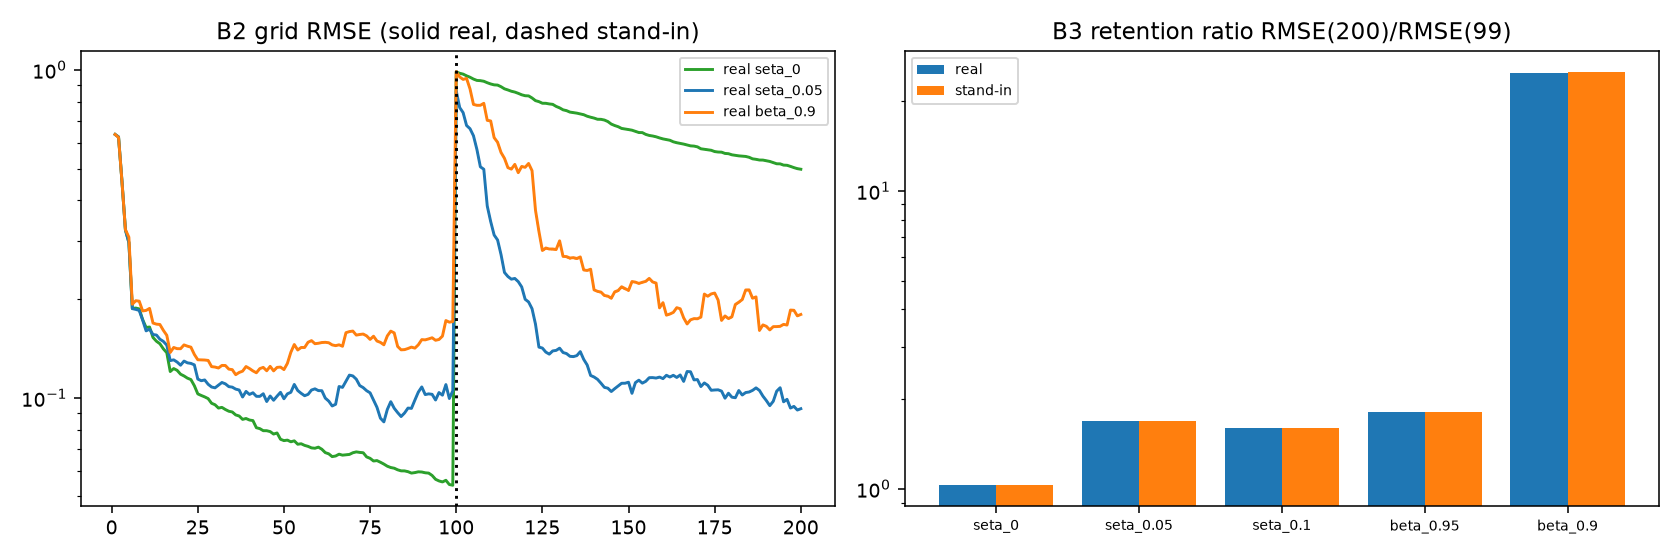
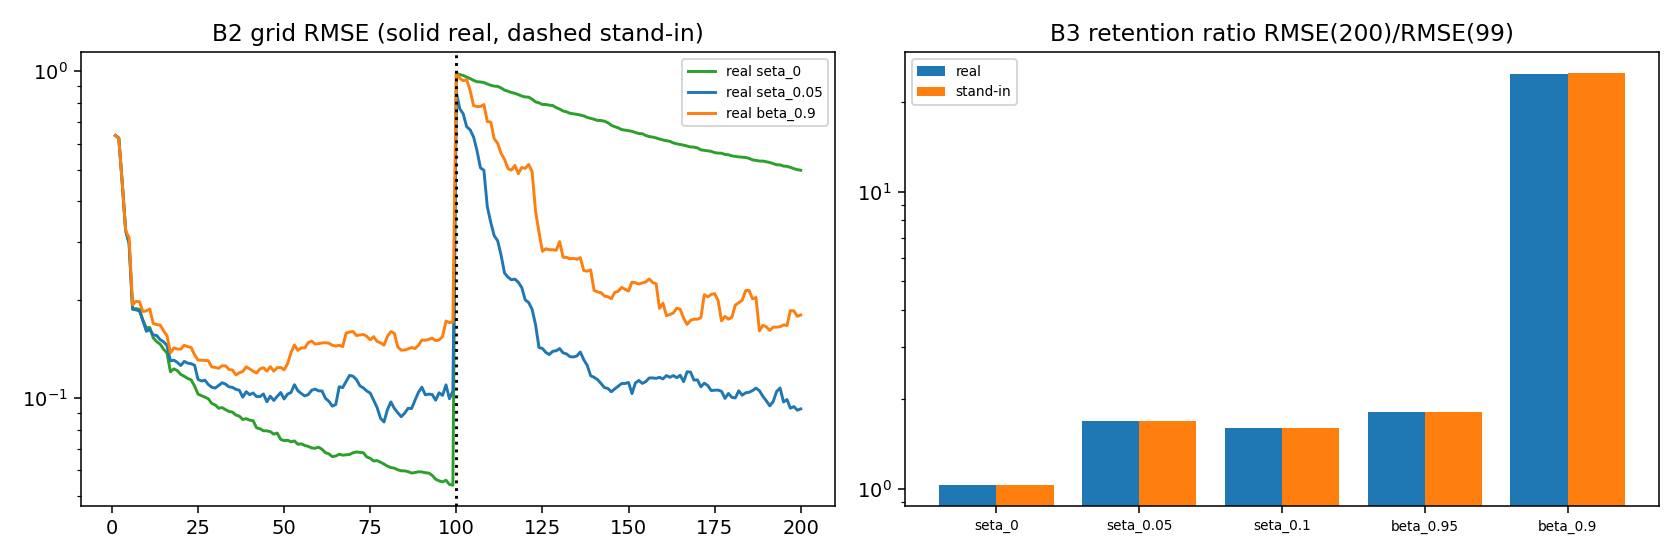
wire v2 criteria (E5-B-real, E6); draft E4b protocol

diff --git a/experiments/e6_uncertainty_action.py b/experiments/e6_uncertainty_action.py
@@ -15,7 +15,8 @@ Criteria (fixed before running):
   A2 sample complexity: T needed for mean MSE<0.01: random/variance ratio >= 1.2 (0.02 and 0.005 reported as info).
   A3 CONTROL anti-variance worse than random at T=100 (paired p<0.01).
   A4 info-gain picks == variance picks at every step (100%).
-  A5 engines: stand-in and real MSE(variance policy) within 5% of exact GP at T=30,100.
+  A5 engines: stand-in and real MSE(variance policy) within 5% of exact GP at T=30,100 (missed, recorded).
+  A5v2 (accepted afterwards, beside A5): same queries and noise fed to each engine; MSE relative difference < 1e-3.
   C1 Thompson cumulative regret at T=100 < random (paired p<0.01).   C2 mean regret over last 25 steps < 0.25 x random's.
   C3 CONTROL anti-Thompson regret(100) > random (paired p<0.01).
   D1 drift (functional random walk, sigma_eta=0.05, exact grid Kalman, 10 seeds x 100 trials): tracking RMSE (t=100..200)
@@ -192,7 +193,7 @@ def main():
         return out
     for e, E in (("standin", StandInEngine), ("real", RealEngine)):
         rel = max(abs(teacher(E, sd)[tt - 1] - M["variance"][sd, tt - 1]) / M["variance"][sd, tt - 1] for sd in range(10) for tt in (30, 100))
-        add(f"POST-HOC teacher-forced {e} vs exact GP MSE (max relative)", rel, "info (<1e-3 means engines agree)", True, True)
+        add(f"A5v2 teacher-forced {e} vs exact GP MSE (max relative)", rel, "<1e-3", rel < 1e-3)
         same = np.mean([np.mean(S["variance"][e][sd]["x"] == R["variance"][sd]["x"]) for sd in range(10)])
         add(f"POST-HOC fraction identical picks {e} vs exact GP", same, "info (near-ties make sequences diverge)", True, True)
     ex = np.array([r["ratio"] for r in R["variance"]]).mean(); rn = np.array([r["ratio"] for r in R["random"]]).mean()
@@ -215,9 +216,12 @@ def main():
     print(f"\n{'check':58s}{'value':>11s}  criterion")
     for n_, v, c, p, info in rows:
         print(f"{n_:58s}{v:11.3e}  {c:34s}{('PASS' if p else 'FAIL') + (' (info)' if info else '')}")
-    ok = all(r[3] for r in rows if not r[4])
-    print(f"\nchecks: {sum(r[3] for r in rows if not r[4])}/{sum(1 for r in rows if not r[4])} pass")
-    print("E6 (uncertainty-driven query selection: stationary design, Thompson regret, drift):", "PASS" if ok else "FAIL")
+    KNOWN_A5 = [r[0] for r in rows if r[0].startswith("A5 ") and not r[3]]          # original A5 misses, recorded (v2 accepted)
+    miss = [r[0] for r in rows if not r[3] and not r[4]]
+    real = [m for m in miss if m not in KNOWN_A5]
+    ok = not real
+    print(f"\nchecks: {sum(r[3] for r in rows if not r[4])}/{sum(1 for r in rows if not r[4])} pass; recorded original A5 misses: {len(KNOWN_A5)} (A5v2 passes); remaining genuine misses: {real}")
+    print("E6 (uncertainty-driven query selection: stationary design, Thompson regret, drift):", "PASS" if ok else "PARTIAL (genuine misses listed above)")
 
     fig, ax = plt.subplots(2, 2, figsize=(12, 8)); tt = np.arange(1, T + 1)
     for p, col in (("random", "tab:gray"), ("variance", "tab:blue"), ("anti", "tab:red")):

diff --git a/experiments/e5b_real_pcfsvi.py b/experiments/e5b_real_pcfsvi.py
@@ -12,6 +12,7 @@ Criteria (fixed before running):
   C4 CONTROL real static (sigma_eta=0): cov95(200) < 0.90 (must fail to be calibrated).
   C5 same-data B2/B3 tables, real vs stand-in, for sigma_eta in {0, 0.05, 0.1} and beta in {0.95, 0.9}:
      |dRMSE| < 0.01 for B2 RMSE@200, B3 tracking@200, B3 retention@200; recovery medians within 2 steps.
+  C5v2 (accepted afterwards, beside C5): max relative |dRMSE|/RMSE < 5% (absolute tolerance is the wrong tool where variance grows like beta^-t).
   C6 PREDICTION: instability transfers: real beta=0.9 retention ratio > 5 and real beta=0.95 retention ratio < 3.
   INFO: real sigma_eta=0.1 retention ratio vs the 1.5 criterion (expected to miss, like the oracle).
 Run: python experiments/e5b_real_pcfsvi.py   (~1-2 min)
@@ -128,6 +129,8 @@ def main():
         a, b = tab[(nm, "real")], tab[(nm, "standin")]
         dr = max(abs(a["b2"] - b["b2"]), abs(a["trk"] - b["trk"]), abs(a["ret"] - b["ret"]))
         dmed = 0.0 if (np.isinf(a["med"]) and np.isinf(b["med"])) else abs(a["med"] - b["med"])
+        rel = max(abs(a["b2"] - b["b2"]) / b["b2"], abs(a["trk"] - b["trk"]) / b["trk"], abs(a["ret"] - b["ret"]) / b["ret"])
+        add(f"C5v2 real vs stand-in max relative dRMSE {nm}", rel, "<0.05", rel < 0.05)
         add(f"C5 real vs stand-in max|dRMSE| {nm}", dr, "<0.01", dr < 0.01); add(f"C5 real vs stand-in recovery diff {nm}", dmed, "<=2 steps", dmed <= 2)
     r9, r95 = tab[("beta_0.9", "real")]["ratio"], tab[("beta_0.95", "real")]["ratio"]
     add("C6 real beta=0.9 retention ratio (instability transfers)", r9, ">5", r9 > 5)
@@ -137,9 +140,11 @@ def main():
     print(f"\n{'check':58s}{'value':>11s}  criterion")
     for n_, v, c, p, info in rows:
         print(f"{n_:58s}{v:11.3e}  {c:28s}{('PASS' if p else 'FAIL') + (' (info)' if info else '')}")
-    ok = all(r[3] for r in rows if not r[4])
-    print(f"\nchecks: {sum(r[3] for r in rows if not r[4])}/{sum(1 for r in rows if not r[4])} pass")
-    print("E5-B-real (real FSVI+pc_infer under functional drift, same data as stand-in/oracle):", "PASS" if ok else "FAIL")
+    KNOWN = ["C5 real vs stand-in max|dRMSE| beta_0.9"]                    # original absolute criterion, recorded; v2 (relative) accepted
+    miss = [r[0] for r in rows if not r[3] and not r[4]]
+    ok = miss == KNOWN
+    print(f"\nchecks: {sum(r[3] for r in rows if not r[4])}/{sum(1 for r in rows if not r[4])} pass; recorded original miss: {miss}")
+    print("E5-B-real (real FSVI+pc_infer under functional drift, same data as stand-in/oracle):", "PASS under v2 (original miss recorded)" if ok else "FAIL")
 
     fig, ax = plt.subplots(1, 2, figsize=(12, 4))
     tt = np.arange(1, T + 1)

diff --git a/docs/e4b_protocol.md b/docs/e4b_protocol.md
@@ -1,0 +1,37 @@
+# E4b protocol (DRAFT, awaiting approval): the look-up table principle (paper 2605.02825, sections 5-6)
+
+Scope if it passes: the look-up-table (LUT) mechanism reproduces exact sequential GP simulation in a 1-D, noise-free, known-hyperparameter Gaussian emulator, and the paper's stability and rate claims are (or are not) supported there. It does NOT validate the Student-t version, 2-D forcing inputs, RGPs, or the Bayesian reflex loop. E4 (inducing points) does not transfer: inducing-point methods optimise/marginalise the auxiliary values, the LUT simulates D* and conditions on it.
+
+## What the paper says (claims to test, no numbers are given in the chapter)
+- Sec 5: dynamic emulator y_t = eta(v_t), v_t = (z_t, y_{t-1}), eta ~ GP, training D = eta(g_1..g_n). Auxiliary D* = eta(G*) on a fixed grid G* (N points). Given D*, eta(v_t) depends on (D, D*, v_t) only (Markov, "approximately"). Algorithm: (1) y_1 ~ [eta(v_1)|D]; (2) D* ~ [D*|D, y_1]; (3) y_t ~ [eta(v_t)|D, D*], t>=2. The covariance A of (D*, D) is fixed and inverted ONCE; integrating D* out needs a new random matrix inverse every step and, per the paper (attributed to Bhattacharya 2007), "breaks down completely" for long sequences while the LUT stays stable.
+- Sec 6.2: approximation of the function by the conditional given D*_n is O(n^-1), n = grid size (Ghosh et al. 2014 theorem).
+
+## Formulation (ours)
+eta ~ GP(0, k), k = sf^2 exp(-(v-v')^2/(2 l^2)), sf=1, l=1 (paper: Gaussian correlation). Control kernel: exponential k = sf^2 exp(-|v-v'|/l). Hyperparameters fixed; Gaussian conditionals (paper: Student-t, unknown variance; deferred to E4b-t). Training: n=8 noise-free points. Dynamics y_t = eta(y_{t-1}), y_0=-2, truth map eta*(y)=0.6 sin(y)+0.4 (stable fixed point, so inputs cluster: the stress case for matrix conditioning). Grid G* = N equispaced points on [-4,4] (diagnostic: fraction of steps with v_t outside G* < 1e-3). Jitter 1e-8 on diag(A) for BOTH LUT and the exact oracle.
+- EXACT (marginalised) oracle: y_t drawn from eta conditioned on D and all previous (v_s, y_s): exact joint by the chain rule. Three implementations: naive inverse each step (np.linalg.inv, jitter 0, T<=500), Cholesky append jitter 0, Cholesky append jitter 1e-8.
+- LUT: A = Cov([D; D*]) + jitter, A^-1 precomputed once (v_1 = y_0 is fixed, so the Step-2 conditional is also precomputed); per step: mean k_v^T A^-1 [D;D*], variance k(v,v) - k_v^T A^-1 k_v, cost O((n+N)^2), independent of t.
+- Closed form for fixed inputs v_1..v_T: LUT joint is Gaussian with mean = exact mean and Cov(y_s,y_t) = B_s S B_t^T (s!=t), Var(y_t) = B_t S B_t^T + r_t, Cov(y_1,y_t) = Cov(y_1,D*) B_t^T, where [y_1, D*] ~ exact posterior, B_t = k_{v_t}^T A^-1 restricted to D*, r_t its residual variance. So KL(exact || LUT) is computable without simulation.
+
+## Tests and pre-registered criteria
+- T1 precompute integrity (N in {20, 100}): ||A A^-1 - I||_F / sqrt(n+N) < 1e-6; cond(A) reported.
+- T2 approximation rate, closed form, N in {5,10,20,40,80,160}, kernels RBF and EXP, T=10 fixed inputs (posterior-mean trajectory): r_N = max_{v in [-3,3]} Var(eta(v)|D,D*) and KL_N.
+  - C2a RBF: r_N non-increasing and r_160 < 1e-6.
+  - C2b EXP (control, prediction Theta(1/N)): log-log slope of r_N over N=10..160 in [-1.2, -0.8].
+  - C2c paper claim "at least O(1/N)": slope of r_N <= -0.9 for BOTH kernels over the range where r_N > 1e-7.
+  - C2d KL_N non-increasing in N (down to 1e-12) for both kernels; slopes reported.
+  - CONTROL coarse grid (RBF): KL_5 > 1e-2 and KL_5 > 100 x KL_80.
+- T3 algorithm validation (N=100, R=20000 replicates, T=10 fixed inputs): sample means and covariances vs the analytic LUT joint, all |diff|/SE < 4.5; y_1 marginal equals the exact one.
+- T4 long-stream stability (dynamic, R=20 replicates (10 for naive), T in {20,50,100,500,1000,5000}, N=100). Failure = non-finite value, non-positive pivot, variance < -1e-8, or |y_t|>10.
+  - C4a LUT failure rate = 0 at every T.  C4b LUT per-step time at T=5000 / T=100 < 2.
+  - C4c LUT vs exact (jitter 1e-8) at T=10, R=5000: two-sample KS p > 0.001 at every t=1..10.
+  - INFO (claim check): failure rate, first failing step and cond number of each exact variant; per-step time slope vs t. Report "claim reproduced" only if an exact variant fails by T=1000 while LUT does not; if the jittered Cholesky survives, say the claim is implementation-dependent.
+- T5 calibration by simulation (SBC): draw eta ~ GP prior on an 801-point grid, train on 8 points, truth trajectory by interpolation, 400 problems, 200 forecast draws each; 90% central interval coverage at t = 1, 2, 5, 10 within 3 SE (+/-0.043) for EXACT (harness check) and for LUT (N=100).
+
+## Deliverables
+src/bayesian_reflex/models/lookup_table.py; experiments/e4b_lookup_table.py; tests/test_lookup_table.py; results/e4b_results.json, e4b_rate_stability.png.
+
+## Decisions needed from you
+1. Approve fixed hyperparameters and the 1-D autonomous map first (Student-t and 2-D (z_t, y_{t-1}) later).
+2. Approve the EXP-kernel control and the jitter policy (1e-8 for both methods).
+3. Keep T5 (SBC) in scope or defer it.
+4. Approve the thresholds above (any changes now, not after seeing results).

diff --git a/docs/experimental_plan.md b/docs/experimental_plan.md
@@ -9,10 +9,10 @@ Source: arXiv 2608.00492 (idea: Bayesian reflex as predictive coding) and arXiv 
 | E2b | Sequential = batch for GP (rank-one update), with E4 | exact batch GP | validated (max diff 2.6e-13, inside E4) |
 | E3 | Precision-weighted prediction error z_t ~ N(0,1) | exact predictive | standardization validated (scalar Gaussian only; does not show the PC layer drives learning) |
 | E4 | Function space: exact GP vs PC-FSVI | exact GP | stand-in validated; real FSVI+pc_infer also validated in this setting (E4-real) |
-| E4b | Look-up table principle (paper sec 5-6) | exact GP | todo |
+| E4b | Look-up table principle (paper sec 5-6) | exact sequential GP / analytic Gaussian joint | protocol drafted (docs/e4b_protocol.md), awaiting approval; no code yet |
 | E5-A | Scalar drift: tracking, uncertainty floor, shift recovery | Kalman filter | **frozen: PASS under v2** (28/29 checks; the v1 miss is recorded and diagnosed as a convergence-rate difference; v2 criteria added beside it); tracking validated under a known model only |
-| E5-B | Functional drift: B1 oracle-correct random walk, B2 global switch, B3 regional change | exact grid Kalman (functional state-space GP) | stand-in: 20/21 (B3 retention-ratio criterion missed by the exact ORACLE, 1.54 vs <1.5). Real engine (E5-B-real): 19/20 on the same data; reproduces stand-in/oracle to ~1e-5 (beta<1 instability transfers); one miss: |dRMSE| 0.067 at beta=0.9 vs 0.01 (1.2% relative, ill-conditioned regime) |
-| E6 | Uncertainty-driven action: A variance (B info gain = A), C Thompson, D under drift | random baseline / known regret | **partial: 8/13 pre-registered checks**; Thompson (regret) and drift (D) pass; variance sampling helps early (T=30) but not by T=100; engine-agreement check A5 missed because near-ties make query sequences diverge (teacher-forced agreement 4e-5 / 8e-5) |
+| E5-B | Functional drift: B1 oracle-correct random walk, B2 global switch, B3 regional change | exact grid Kalman (functional state-space GP) | stand-in: 20/21 (B3 retention ratio missed by the exact oracle, 1.54 vs <1.5). Real engine (E5-B-real): **frozen, PASS under v2** (24/25; the original absolute-tolerance miss at beta=0.9 is recorded, relative v2 passes at 1.2%) |
+| E6 | Uncertainty-driven action: A variance (B info gain = A), C Thompson, D under drift | random baseline / known regret | **PARTIAL**: 10/15 checks; A5 original misses recorded, A5v2 (teacher-forced agreement 4e-5 / 8e-5) passes; one genuine miss: variance sampling does not beat random by T=100 (A1) |
 | E7 | Full reflex loop + ablations | composition of validated parts | todo |
 | E8a | Ellipsoidal sampler standalone | exact samplers | todo |
 | E8b | Ellipsoidal sampler inside the loop (Alg 4) | exact conjugate | todo |

diff --git a/README.md b/README.md
@@ -25,8 +25,8 @@ The paper reinterprets the "Bayesian reflex" (online Bayesian learning) as a com
 | E4-real | Same task with your real FSVI + pc_infer (adapter; utils.py shimmed) | validated in this setting (Gaussian, streaming); see docs |
 | E5-A | Scalar drift tracking vs Kalman oracle (known linear-Gaussian model) | frozen: PASS under v2 (original v1 miss recorded and diagnosed) |
 | E5-B | Functional drift, stand-in vs exact grid Kalman oracle | 20/21 checks; retention criterion missed; real PC-FSVI swap pending |
-| E5-B-real | Functional drift with the real FSVI + pc_infer (same data as stand-in) | 19/20 checks; reproduces stand-in and oracle; one tolerance miss at beta=0.9 |
-| E6 | Uncertainty-driven action (variance sampling, Thompson regret, drift) | partial: 8/13 checks (see docs) |
+| E5-B-real | Functional drift with the real FSVI + pc_infer (same data as stand-in) | frozen: PASS under v2 (original absolute-tolerance miss recorded) |
+| E6 | Uncertainty-driven action (variance sampling, Thompson regret, drift) | partial: 10/15; A5v2 passes; variance sampling does not beat random by T=100 |
 | E4b, E7-E8 |  function space, look-up table, nonstationarity, action, full loop, ellipsoidal | planned (see `docs/experimental_plan.md`) |
 
 ### Layout
